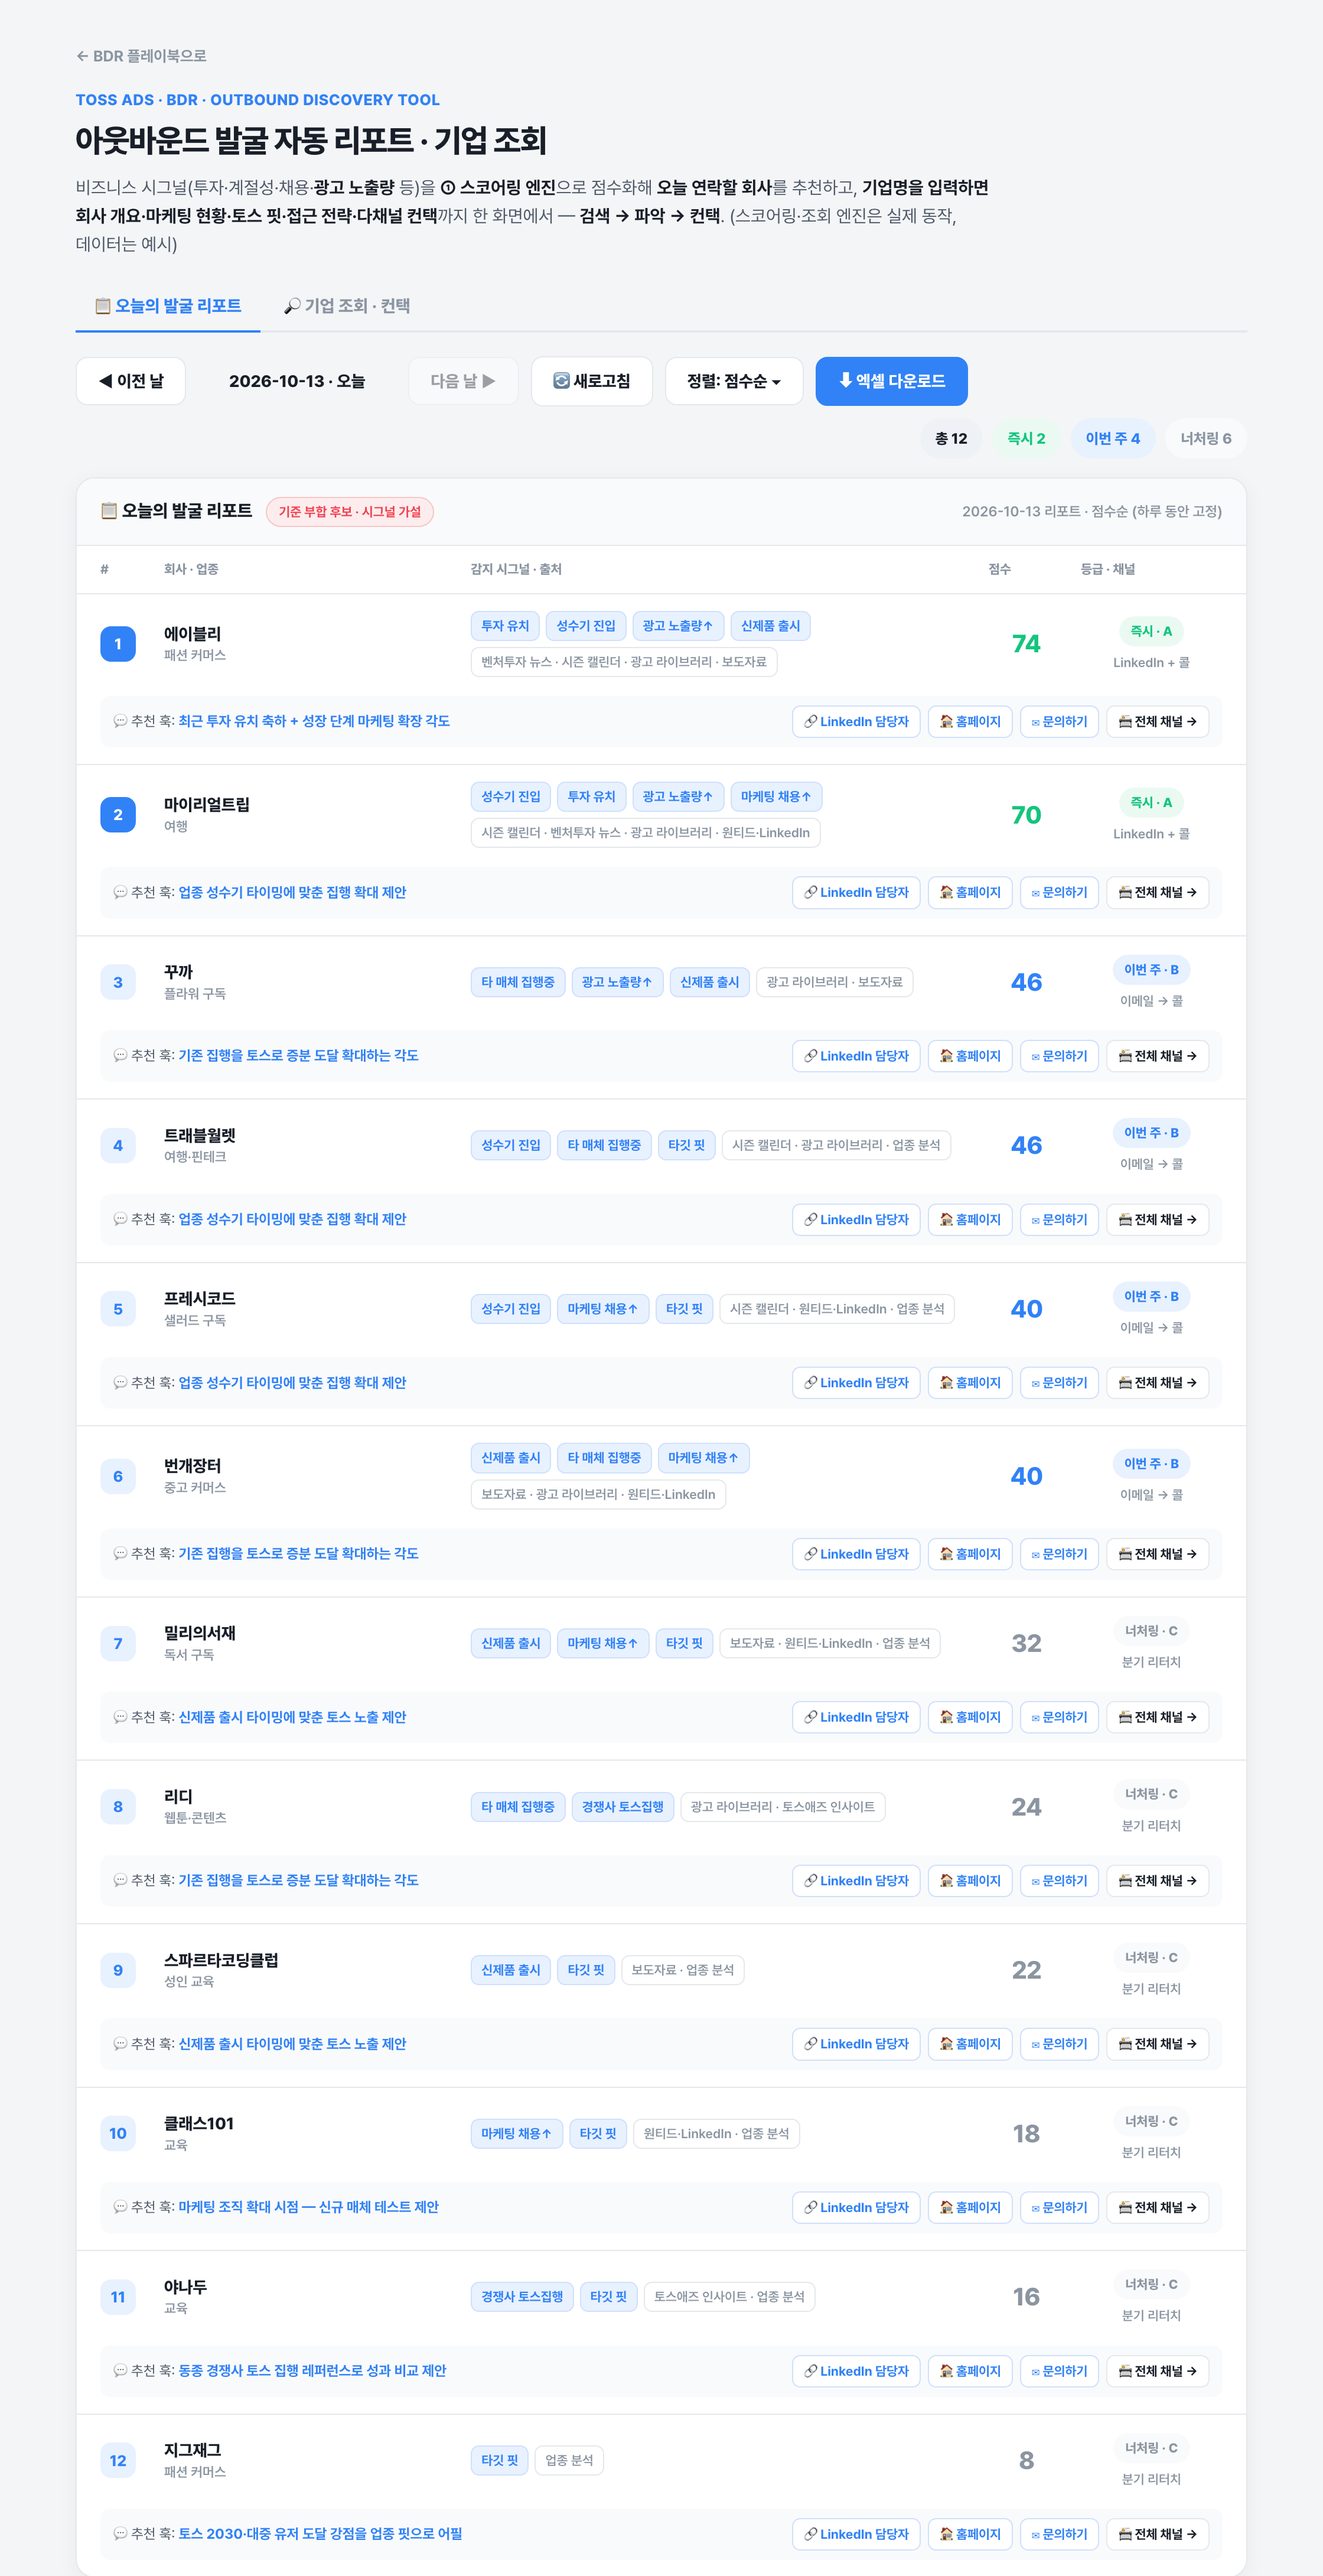
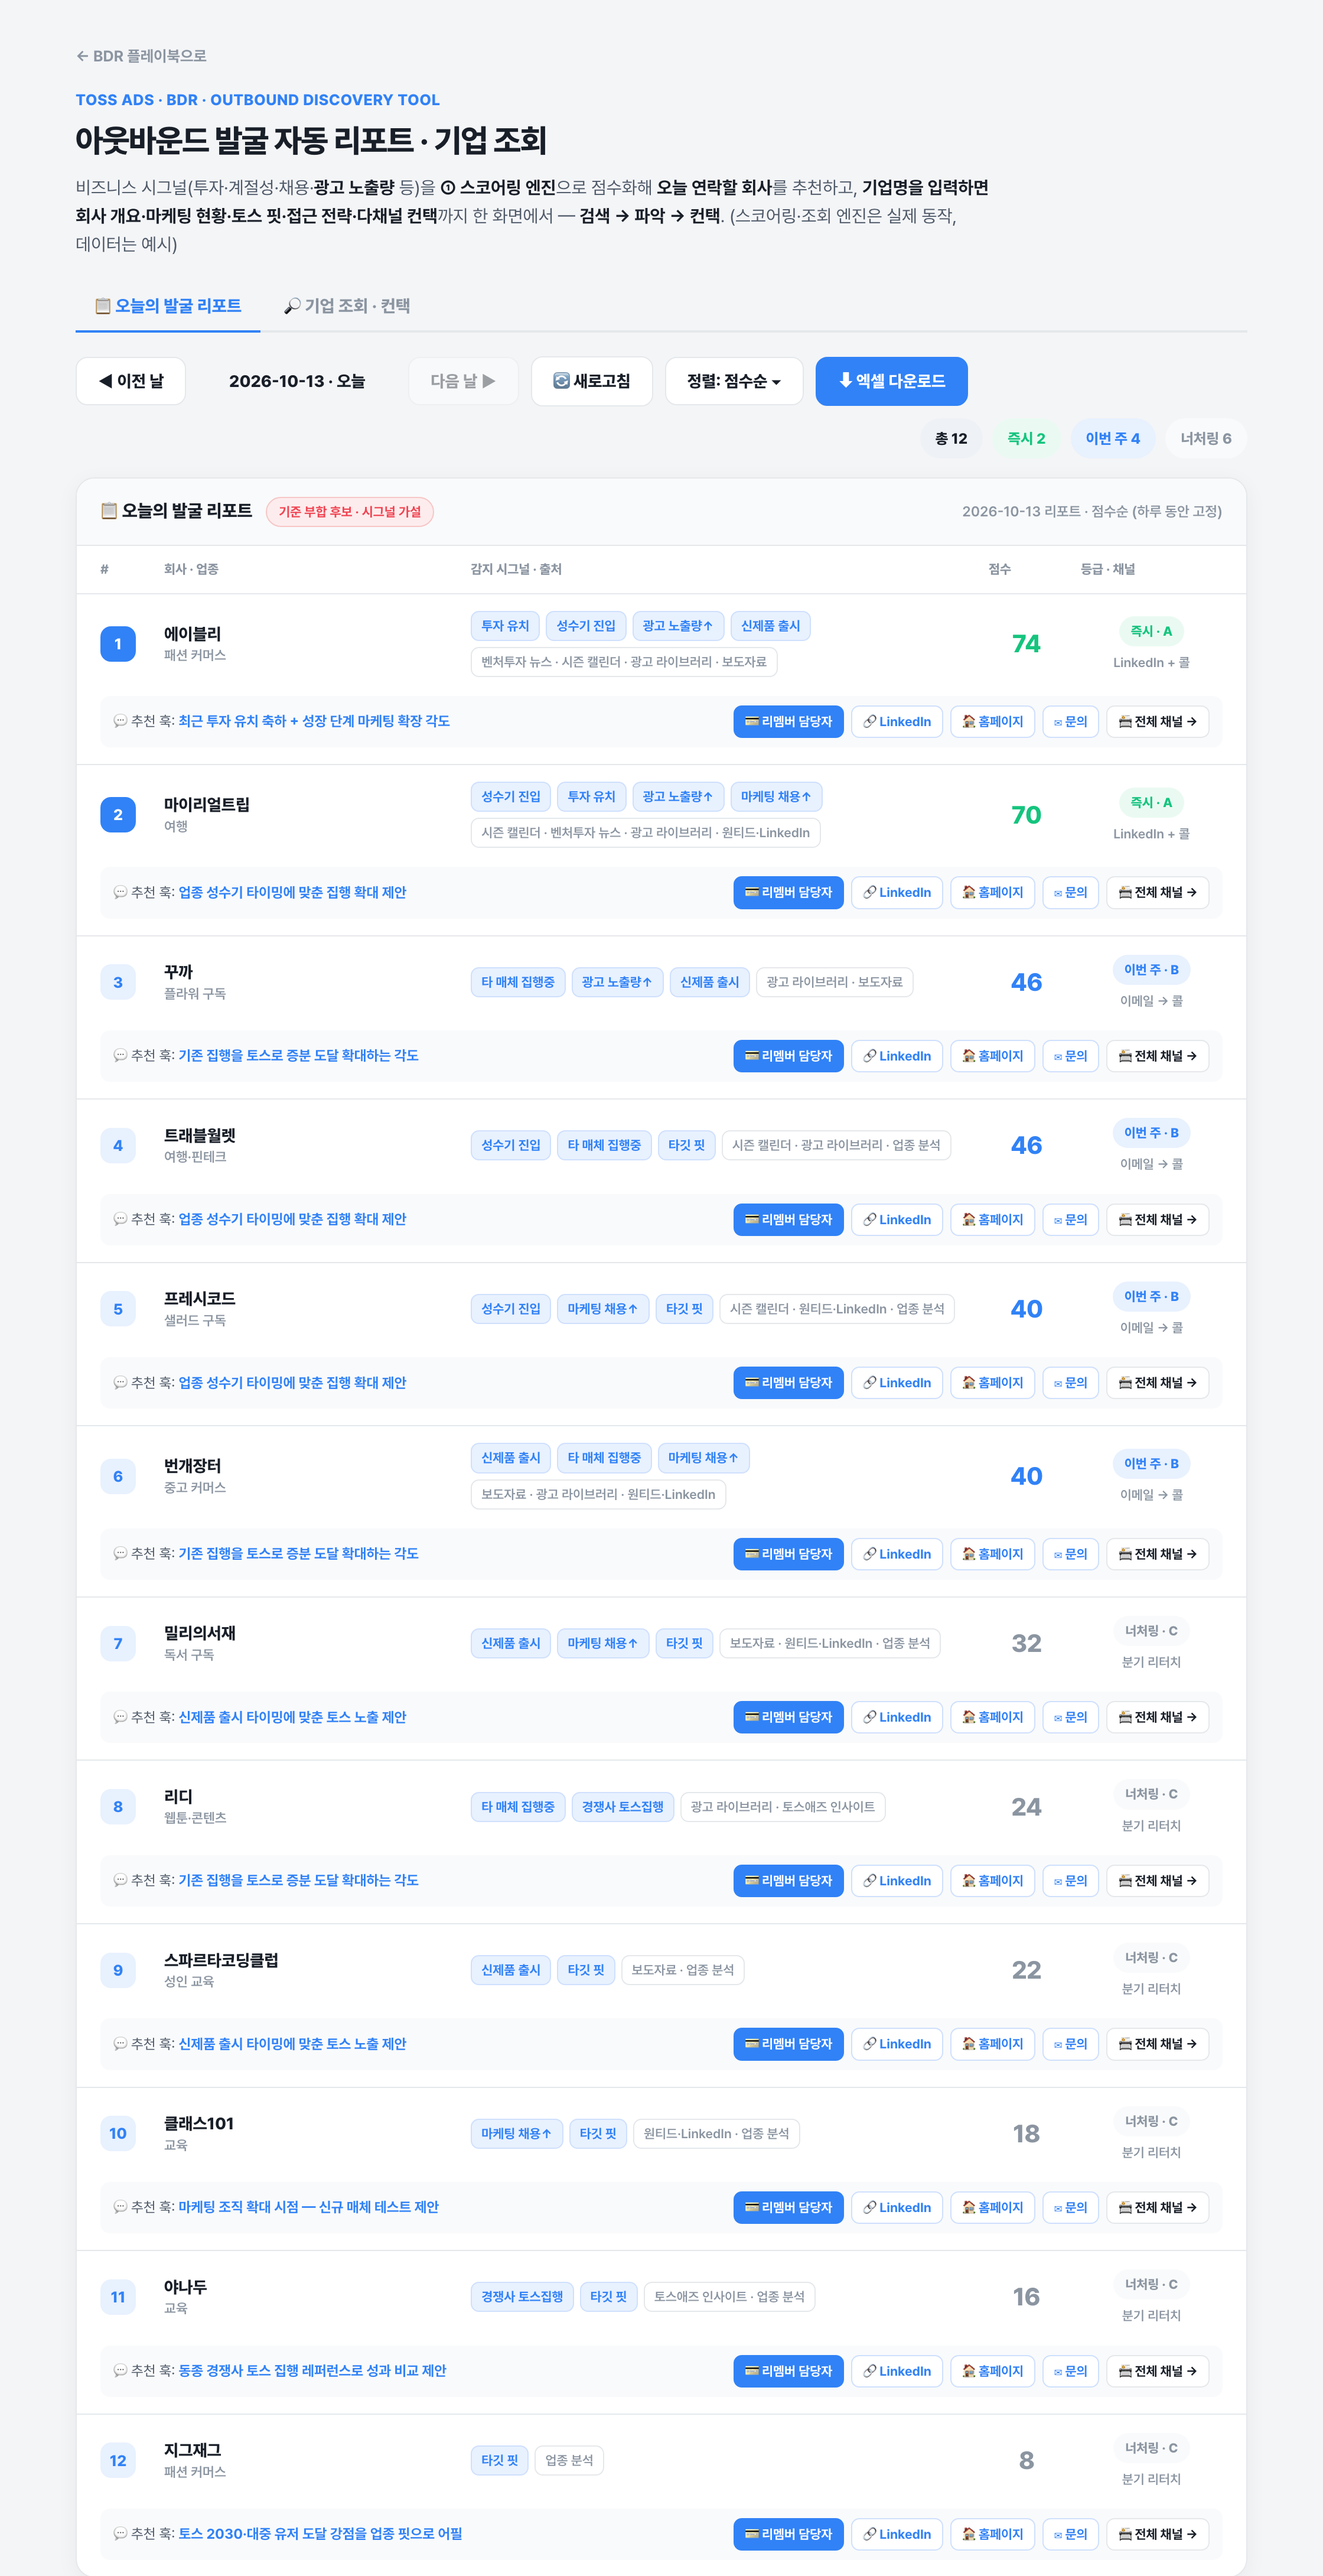
style(tossbdr): 컨택 포인트 메인을 리멤버 커넥트로 (LinkedIn 보조 유지)
- 리포트 행·기업조회 브리핑 모두 💳 리멤버 커넥트를 파란 메인 버튼으로 전면 배치
- 한국 비즈니스 담당자 탐색에 가장 효과적인 리멤버를 1순위 컨택 포인트로

diff --git a/tossbdr/discovery.html b/tossbdr/discovery.html
@@ -56,6 +56,7 @@
   .cbtn{font-size:11px;font-weight:700;color:var(--blue);background:#fff;border:1px solid #cfe0fd;border-radius:7px;padding:4px 9px;text-decoration:none;white-space:nowrap;}
   .cbtn:hover{background:var(--blue);color:#fff;border-color:var(--blue);}
   .cbtn.more{color:var(--ink);border-color:var(--line);}
+  .cbtn.key{background:var(--blue);color:#fff;border-color:var(--blue);} .cbtn.key:hover{background:#1b64da;color:#fff;}
   /* 기업 조회 */
   .search{display:flex;gap:10px;flex-wrap:wrap;margin-bottom:12px;}
   .search input{flex:1;min-width:240px;padding:14px 16px;border:1px solid var(--line);border-radius:12px;font-size:15px;font-family:inherit;color:var(--ink);}
@@ -287,9 +288,10 @@
         '<div class="rend"><span class="rgr '+g.c+'">'+g.g+'</span><span class="rch">'+g.ch+'</span></div>'+
         '<div class="hookrow"><span>💬 추천 훅: <b>'+SIG[top].hook+'</b></span>'+
           '<span class="cbtns">'+
-            '<a class="cbtn" href="'+LINK.linkedin(n)+'" target="_blank" rel="noopener">🔗 LinkedIn 담당자</a>'+
+            '<a class="cbtn key" href="'+LINK.remember(n)+'" target="_blank" rel="noopener">💳 리멤버 담당자</a>'+
+            '<a class="cbtn" href="'+LINK.linkedin(n)+'" target="_blank" rel="noopener">🔗 LinkedIn</a>'+
             '<a class="cbtn" href="'+LINK.home(n)+'" target="_blank" rel="noopener">🏠 홈페이지</a>'+
-            '<a class="cbtn" href="'+LINK.inquiry(n)+'" target="_blank" rel="noopener">✉ 문의하기</a>'+
+            '<a class="cbtn" href="'+LINK.inquiry(n)+'" target="_blank" rel="noopener">✉ 문의</a>'+
             '<a class="cbtn more" href="?company='+enc(n)+'#lookup">📇 전체 채널 →</a>'+
           '</span>'+
         '</div>'+
@@ -429,8 +431,8 @@
           '</ul>'+
           '<div class="bsec">👤 담당자 컨택 포인트</div>'+
           '<div class="chgroup"><div class="chbtns">'+
-            ch(LINK.linkedin(name),'🔗 LinkedIn 담당자',true)+ch(LINK.home(name),(LINK.hasHome(name)?'🏠 홈페이지':'🏠 홈페이지 검색'))+ch(LINK.inquiry(name),'✉ 문의하기')+
-            ch(LINK.remember(name),'💳 리멤버')+ch(LINK.liCompany(name),'🏢 LinkedIn 회사')+ch(LINK.mail(name,'토스 Ads 제안'),'📧 콜드메일 초안')+
+            ch(LINK.remember(name),'💳 리멤버 커넥트 담당자',true)+ch(LINK.linkedin(name),'🔗 LinkedIn 담당자')+ch(LINK.home(name),(LINK.hasHome(name)?'🏠 홈페이지':'🏠 홈페이지 검색'))+
+            ch(LINK.inquiry(name),'✉ 문의하기')+ch(LINK.liCompany(name),'🏢 LinkedIn 회사')+ch(LINK.mail(name,'토스 Ads 제안'),'📧 콜드메일 초안')+
           '</div></div>'+
           '<div class="bsec">📈 마케팅 채용 · 조직 확인</div>'+
           '<div class="chgroup"><div class="chbtns">'+
